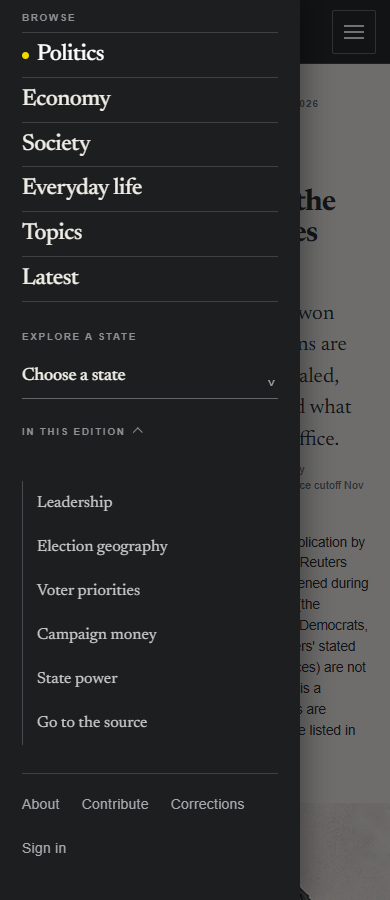
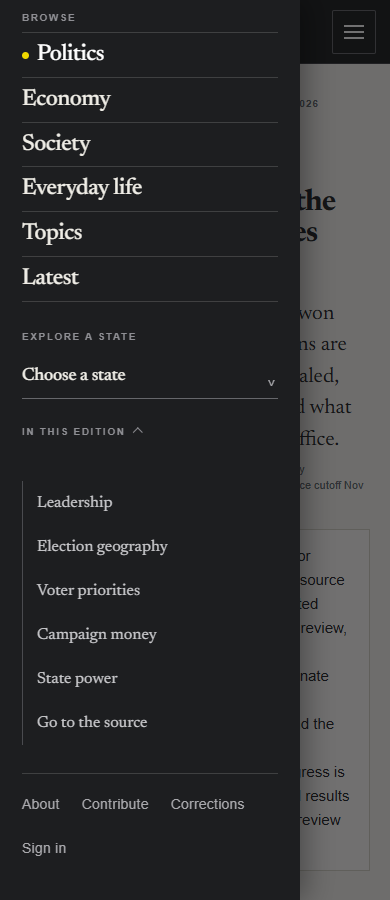
Daily Signal layout: 1120px editorial canvas, 680px reading column, wide high-resolution chapter images, compact at-a-glance, readable notes, layout check

Changed region(s): [[0.7692, 0.5911, 0.9538, 0.9333], [0.7692, 0.9644, 0.8, 1.0]]

diff --git a/static/css/politics.css b/static/css/politics.css
@@ -221,15 +221,17 @@ body.pol-home{--pol-gutter:48px;--pol-max:1240px}
 
 .pol-acc__note{font:13px/1.5 var(--sans);color:var(--muted);margin:16px 0 0;max-width:460px}
 
-/* ---- Daily Signal page: hero spread, sticky chapter bar, photo teasers, photo-led chapters with previous and next links */
-.pol-ed{max-width:none;margin:0;padding:0 0 80px}
+/* ---- Daily Signal page. Two widths: the editorial canvas (1120px) holds headlines, teasers and photographs; the reading column (680px) holds body text. */
+.pol-ed{--canvas:1120px;--read:680px;max-width:none;margin:0;padding:0 0 96px}
 .pol-ed__head{background:var(--llf-paper);overflow:hidden;border-bottom:1px solid var(--llf-line)}
-.pol-ed__head-in{display:grid;grid-template-columns:minmax(0,1.15fr) minmax(0,.85fr);max-width:1440px;margin:0 auto;padding:34px 0 0 var(--pol-gutter);min-height:400px}
-.pol-ed__head-t{padding:0 32px 34px 0;align-self:center}
+.pol-ed__head-in{display:grid;grid-template-columns:minmax(0,1.15fr) minmax(0,.85fr);max-width:1240px;margin:0 auto;padding:34px var(--pol-gutter) 0;min-height:380px;gap:24px;align-items:end}
+.pol-ed__head-t{padding-bottom:34px;align-self:center}
 .pol-ed__head h1{font:normal 700 clamp(30px,3.7vw,56px)/1.03 var(--serif);letter-spacing:-.03em;margin:12px 0 0}
-.pol-duo--ed{min-height:340px}
+.pol-ed__headimg{margin:0;align-self:end}
+.pol-ed__headimg img{display:block;width:100%;height:auto}
+.pol-ed__headimg figcaption{font:10px/1.35 var(--sans);color:var(--muted);padding:4px 0 6px}
 .pol-chapters{position:sticky;top:0;z-index:20;background:rgba(248,246,240,.97);border-bottom:1px solid var(--llf-line);-webkit-backdrop-filter:blur(6px);backdrop-filter:blur(6px)}
-.pol-chapters__in{max-width:1240px;margin:0 auto;padding:0 var(--pol-gutter);display:flex;align-items:center;gap:18px;overflow-x:auto;scrollbar-width:none}
+.pol-chapters__in{max-width:var(--canvas,1120px);margin:0 auto;padding:0 var(--pol-gutter);display:flex;align-items:center;gap:18px;overflow-x:auto;scrollbar-width:none}
 .pol-chapters__in::-webkit-scrollbar{display:none}
 .pol-chapters__top{flex:none;font:700 10.5px/1 var(--sans);letter-spacing:.14em;text-transform:uppercase;color:var(--llf-blue);text-decoration:none;display:inline-flex;align-items:center;min-height:48px}
 .pol-chapters ol{display:flex;list-style:none;margin:0;padding:0;gap:2px}
@@ -238,24 +240,48 @@ body.pol-home{--pol-gutter:48px;--pol-max:1240px}
 .pol-chapters a[data-chapter]:hover,.pol-chapters a[data-chapter]:focus-visible{background:var(--llf-line)}
 .pol-chapters a[aria-current="location"]{background:var(--llf-ink);color:var(--llf-paper)}
 .pol-chapters a[aria-current="location"] .pol-ch__n{color:var(--llf-yellow)}
-.pol-ed [id]{scroll-margin-top:112px}
-.pol-ed__sec{max-width:780px;margin:52px auto 0;padding:6px var(--pol-gutter) 0}
-.pol-ed__sec.pol-ed__signals{max-width:1240px}
-.pol-teasers__list--ed{margin-top:22px}
-.pol-ed__fig{margin:0 0 24px}
-.pol-ed__fig img{display:block;width:auto;max-width:100%;height:auto;max-height:440px}
-.pol-ed__fig figcaption{font:11px/1.4 var(--sans);color:var(--muted);margin-top:6px}
-.pol-ed__chapter{padding-top:34px;border-top:1px solid var(--llf-line)}
-.pol-ed__pn{display:grid;grid-template-columns:1fr 1fr;gap:16px;margin-top:22px;border-top:1px solid var(--llf-line);padding-top:14px}
+.pol-ed [id]{scroll-margin-top:84px}
+/* every section sits on the canvas; its text children return to the reading column */
+.pol-ed__sec{max-width:var(--canvas);margin:80px auto 0;padding:0 var(--pol-gutter)}
+.pol-ed__sec>:not(.pol-ed__chhead):not(.pol-ed__fig):not(.pol-teasers__list):not(.pol-ed__body){max-width:var(--read);margin-left:auto;margin-right:auto}
+.pol-ed__body{max-width:var(--read);margin:0 auto}
+.pol-ed__sec h2{font:normal 600 clamp(28px,3vw,40px)/1.1 var(--serif);letter-spacing:-.02em;margin:8px 0 18px}
+.pol-ed__sec p{font:normal 19px/1.65 var(--serif);margin:0 0 16px}
+.pol-ed__sec p.pol-ed__src,.pol-ed__src em{font:13px/1.5 var(--sans);color:var(--muted)}
+.pol-ed__sec p.pol-ed__close{font:italic normal 22px/1.4 var(--serif)}
+.pol-ed__chapter{padding-top:48px;border-top:1px solid var(--llf-line)}
+.pol-ed__chhead{max-width:var(--canvas);margin:0 auto 26px;padding-bottom:22px;border-bottom:1px solid var(--llf-ink)}
+.pol-ed__chhead h2{font:normal 700 clamp(36px,4.6vw,60px)/1.04 var(--serif);letter-spacing:-.028em;margin:10px 0 0;max-width:20ch}
+.pol-ed__fig{max-width:var(--canvas);margin:0 auto 40px}
+.pol-ed__fig img{display:block;width:100%;height:auto;aspect-ratio:16/9;object-fit:cover}
+.pol-ed__fig--32 img{aspect-ratio:3/2}
+.pol-ed__fig figcaption{font:11px/1.4 var(--sans);color:var(--muted);margin-top:8px}
+.pol-ed__pn{display:grid;grid-template-columns:1fr 1fr;gap:16px;margin-top:26px;border-top:1px solid var(--llf-line);padding-top:14px}
 .pol-ed__pn a{display:block;min-height:44px;color:var(--llf-ink);text-decoration:none}
 .pol-ed__pn a span{display:block;font:700 10.5px/1.3 var(--sans);letter-spacing:.12em;text-transform:uppercase;color:var(--llf-blue)}
 .pol-ed__pn a b{display:block;font:600 18px/1.25 var(--serif);margin-top:4px}
 .pol-ed__pn a:hover b,.pol-ed__pn a:focus-visible b{text-decoration:underline;text-underline-offset:4px}
 .pol-ed__pn .pol-ed__next{text-align:right}
+/* at a glance: compact, two columns */
+.pol-glance{border-top:1px solid var(--llf-ink);margin:22px auto 0;padding-top:2px}
+.pol-glance h3{margin:12px 0 4px}
+.pol-glance ul{list-style:none;margin:0;padding:0;display:grid;grid-template-columns:repeat(2,minmax(0,1fr));gap:0 28px}
+.pol-glance li{font:13.5px/1.45 var(--sans);padding:8px 0;border-bottom:1px solid var(--llf-line)}
+/* editorial verification notes: readable, with real contrast */
+.pol-note{margin:20px 0 0;border:1px solid var(--llf-line);border-left:4px solid var(--llf-blue);background:var(--llf-white);padding:14px 18px;font:15px/1.6 var(--sans);color:var(--llf-ink);max-width:var(--read,680px)}
+.pol-draftbar{margin:18px 0 0;border:1px solid var(--llf-ink);border-left-width:5px;padding:12px 16px;font:14px/1.5 var(--sans);background:repeating-linear-gradient(135deg,transparent 0 9px,rgba(34,35,38,.05) 9px 10px)}
+.pol-ed__sec .pol-list{font:15px/1.65 var(--sans)}
+.pol-ed__sec h3{font:700 11px/1.3 var(--sans);letter-spacing:.12em;text-transform:uppercase;margin:26px 0 8px}
+.pol-teasers__list--ed{margin-top:24px}
 @media (max-width:1100px){
-  .pol-ed__head-in{grid-template-columns:minmax(0,1fr);padding-left:var(--pol-gutter);min-height:0}
-  .pol-ed__head-t{padding-right:var(--pol-gutter)}
-  .pol-duo--ed{margin:0 0 0 calc(var(--pol-gutter) * -1)}
+  .pol-ed__head-in{grid-template-columns:minmax(0,1fr);min-height:0}
+  .pol-ed__headimg{max-width:560px}
 }
-@media (max-width:900px){.pol-chapters{top:64px}.pol-ed [id]{scroll-margin-top:136px}}
-@media (max-width:600px){.pol-ed__pn{grid-template-columns:minmax(0,1fr)}.pol-ed__pn .pol-ed__next{text-align:left}}
+@media (max-width:900px){.pol-chapters{top:64px}.pol-ed [id]{scroll-margin-top:140px}}
+@media (max-width:600px){
+  .pol-ed__sec{margin-top:56px}
+  .pol-ed__chhead h2{font-size:clamp(30px,9vw,40px)}
+  .pol-ed__pn{grid-template-columns:minmax(0,1fr)}.pol-ed__pn .pol-ed__next{text-align:left}
+  .pol-glance ul{grid-template-columns:minmax(0,1fr)}
+}
+

diff --git a/politics.py b/politics.py
@@ -125,6 +125,16 @@ def _img(key):
     return f"/img/elections/{key}.jpg"
 
 
+def _imgtag(im, alt="", sizes="(min-width: 1100px) 33vw, 100vw", loading="lazy"):
+    """A responsive <img>: the large file for wide screens and the small file for narrow ones. Falls back to a single src for older records."""
+    if im.get("src_small"):
+        ss = f'srcset="{e(im["src_small"])} {im["w_small"]}w, {e(im["src"])} {im["w"]}w" sizes="{sizes}" '
+    else:
+        ss = ""
+    ratio = 'width="1600" height="900"' if im.get("w") != 1500 else 'width="1500" height="1000"'
+    return f'<img class="pol-img--{e(im["treatment"])}" src="{e(im["src"])}" {ss}alt="{e(alt)}" loading="{loading}" {ratio}>'
+
+
 def _head(m, mid=None, tag="h2"):
     i = f' id="{mid}"' if mid else ""
     return f'<div class="pol-eyebrow">{e(m["eyebrow"])}</div><{tag}{i}>{e(m["h2"])}</{tag}>'
@@ -180,7 +190,7 @@ def teaser_section(api, d, teasers):
         im = t["image"]
         cr = im.get("credit") or credit_line(api, im.get("key", ""))
         u = f'/politics/daily/{e(ed["date"])}/#{e(t["target"])}'
-        arts += (f'<li class="pol-teaser"><a class="pol-teaser__pic" href="{u}" tabindex="-1" aria-hidden="true"><img class="pol-img--{e(im["treatment"])}" src="{e(im["src"])}" alt="" loading="lazy" width="1200" height="800">'
+        arts += (f'<li class="pol-teaser"><a class="pol-teaser__pic" href="{u}" tabindex="-1" aria-hidden="true">{_imgtag(im)}'
                  f'<span class="pol-credit">{e(cr)}</span></a>'
                  f'<div class="pol-teaser__body"><a class="pol-teaser__a" href="{u}"><span class="pol-teaser__n">{e(t["n"])} / {e(src["label"])}</span><span class="pol-teaser__t">{e(t["title"])}</span></a>'
                  f'<p class="pol-teaser__s">{src["teaser"]}</p>'
@@ -337,7 +347,7 @@ def render_edition(r, fmt_date, preview=False, teasers=None, art=None, credit=No
     cards = ""
     for i in sg["items"]:
         im = (imgs.get(i["target"]) or {}).get("image")
-        pic = (f'<a class="pol-teaser__pic" href="#{e(i["target"])}" tabindex="-1" aria-hidden="true"><img class="pol-img--{e(im["treatment"])}" src="{e(im["src"])}" alt="" loading="lazy" width="1200" height="800">'
+        pic = (f'<a class="pol-teaser__pic" href="#{e(i["target"])}" tabindex="-1" aria-hidden="true">{_imgtag(im)}'
                f'<span class="pol-credit">{e(credit(im))}</span></a>') if im else ""
         cards += (f'<li class="pol-teaser">{pic}<div class="pol-teaser__body"><a class="pol-teaser__a" href="#{e(i["target"])}"><span class="pol-teaser__n">{e(i["n"])} / {e(i["label"])}</span>'
                   f'<span class="pol-teaser__t">{e(i["title"])}</span></a><p class="pol-teaser__s">{i["teaser"]}</p>'
@@ -346,7 +356,8 @@ def render_edition(r, fmt_date, preview=False, teasers=None, art=None, credit=No
     secs = ""
     for k, s in enumerate(b["sections"]):
         im = (imgs.get(s["id"]) or {}).get("image")
-        fig = (f'<figure class="pol-ed__fig"><img class="pol-img--{e(im["treatment"])}" src="{e(im["src"])}" alt="{e(im["alt"])}" loading="lazy" width="1200" height="800">'
+        wide = bool(im) and im.get("w") == 1500
+        fig = (f'<figure class="pol-ed__fig{" pol-ed__fig--32" if wide else ""}">{_imgtag(im, im["alt"], "(min-width: 1180px) 1120px, 100vw", "lazy")}'
                f'<figcaption>{e(credit(im))}</figcaption></figure>') if im else ""
         prev = b["sections"][k - 1] if k else None
         nxt = b["sections"][k + 1] if k + 1 < len(b["sections"]) else None
@@ -355,8 +366,8 @@ def render_edition(r, fmt_date, preview=False, teasers=None, art=None, credit=No
               + (f'<a class="pol-ed__next" href="#{e(nxt["id"])}"><span>Next chapter →</span><b>{e(nxt["h2"])}</b></a>' if nxt else '<a class="pol-ed__next" href="#what-next"><span>Next →</span><b>What we are watching next</b></a>')
               + '</nav>')
         paras = "".join(f"<p>{p}</p>" for p in s["paras"])
-        secs += (f'<section class="pol-ed__sec pol-ed__chapter" id="{e(s["id"])}">{fig}<div class="pol-eyebrow">{e(s["n"])} / {e(label.get(s["id"], ""))}</div>'
-                 f'<h2>{e(s["h2"])}</h2>{paras}<p class="pol-ed__src">{s["source_review"]}</p><p class="pol-ed__back"><a href="#five-signals">Back to today\'s signals</a></p>{pn}</section>')
+        secs += (f'<section class="pol-ed__sec pol-ed__chapter" id="{e(s["id"])}"><header class="pol-ed__chhead"><div class="pol-eyebrow">{e(s["n"])} / {e(label.get(s["id"], ""))}</div>'
+                 f'<h2>{e(s["h2"])}</h2></header>{fig}<div class="pol-ed__body">{paras}<p class="pol-ed__src">{s["source_review"]}</p><p class="pol-ed__back"><a href="#five-signals">Back to today\'s signals</a></p>{pn}</div></section>')
     w = b["watching"]
     watch = "".join(f"<li>{x}</li>" for x in w["items"])
     src = "".join(f'<li><a href="{e(s["url"])}" rel="noopener">{e(s["label"])}</a>, {e(fmt_date(s["date"]))}</li>' for s in r["sources"])
@@ -364,8 +375,8 @@ def render_edition(r, fmt_date, preview=False, teasers=None, art=None, credit=No
     editor = ("Edited by " + e(r["editor"])) if not r["editor"].lower().startswith("not yet") else "Editor not yet assigned"
     hero = ""
     if art:
-        hero = (f'<figure class="pol-duo pol-duo--ed" data-asset="{e(art["asset_id"])}"><span class="pol-duo__plane" aria-hidden="true"></span>'
-                f'<img class="pol-duo__img" src="{e(art["src"])}" width="{art["width"]}" height="{art["height"]}" alt="{e(art["alt"])}" fetchpriority="high"></figure>')
+        hero = (f'<figure class="pol-ed__headimg" data-asset="{e(art["asset_id"])}">'
+                f'<img src="{e(art["src"])}" width="{art["width"]}" height="{art["height"]}" alt="{e(art["alt"])}" fetchpriority="high"><figcaption>{e(art["credit"])}</figcaption></figure>')
     return (f'<article class="pol-ed" data-outline-label="In this edition" data-story-id="{e(r["story_id"])}">'
             f'<header class="pol-ed__head"><div class="pol-ed__head-in"><div class="pol-ed__head-t"><div class="breadcrumb"><a href="/">Home</a> / <a href="/politics/">Politics</a> / <a href="/politics/daily/">The Daily Signal</a> / {e(fmt_date(r["date"]))}</div>'
             f'<div class="pol-eyebrow">THE DAILY SIGNAL / EDITION {e(r["edition"])}</div><h1>{e(r["title"])}</h1><p class="pol-ed__dek">{e(r["dek"])}</p>'
@@ -455,7 +466,7 @@ def build(api):
     d = home["daily"]
     for dt, rs in groups.items():
         is_draft = any(r["status"] != "approved" for r in rs)
-        page = render_daily_briefing(dt, rs, fmt_date, teasers=home["teasers"], art=home["hero"]["art"],
+        page = render_daily_briefing(dt, rs, fmt_date, teasers=home["teasers"], art=home["edition_art"],
                                      credit=lambda im: im.get("credit") or credit_line(api, im.get("key", "")))
         if any(r.get("blocks") for r in rs):
             validate_edition_html(next(r for r in rs if r.get("blocks")), page)

diff --git a/tools/qa/politics_layout_check.py b/tools/qa/politics_layout_check.py
@@ -1,0 +1,94 @@
+#!/usr/bin/env python3
+"""Layout measurements for the Daily Signal edition (Playwright; serves ./dist locally).
+
+Checks, at 1440 and 390 px: chapter photographs fill the editorial canvas (900 to 1120 px on desktop, never below natural-size limits), the reading column is
+640 to 700 px, chapter images are 16:9 or 3:2 and never upscaled past their pixel width, headlines are larger than body text and separated from it, and every
+chapter and teaser anchor scrolls to a fully visible heading (not hidden under the sticky bars). Prints a measurement table. Exit 1 on any failure.
+"""
+import functools
+import sys
+import threading
+from http.server import SimpleHTTPRequestHandler, ThreadingHTTPServer
+from pathlib import Path
+
+ROOT = Path(__file__).resolve().parents[2]
+PAGE = "/politics/daily/2026-11-05/"
+CHAPTERS = ["leadership", "geography", "voters", "money", "states"]
+MEASURE = r"""(id) => {
+  const s = document.getElementById(id); const r = e => e ? e.getBoundingClientRect() : null;
+  const fig = s.querySelector('.pol-ed__fig img'), h = s.querySelector('h2'), p = s.querySelector('.pol-ed__body p');
+  const f = r(fig), hh = r(h), pp = r(p);
+  const real = fig ? (() => { const m = (fig.srcset || '').split(',').map(x => x.trim().split(/\s+/)).find(x => fig.currentSrc.endsWith(x[0].split('?')[0]) || fig.currentSrc.includes(x[0].split('?')[0])); return m ? parseInt(m[1]) : fig.naturalWidth; })() : 0;
+  return {fig: f && {w: Math.round(f.width), h: Math.round(f.height), nat: real, ratio: +(f.width / f.height).toFixed(2)},
+          head: {w: Math.round(hh.width), size: parseFloat(getComputedStyle(h).fontSize)},
+          body: {w: Math.round(pp.width), size: parseFloat(getComputedStyle(p).fontSize)},
+          gap: Math.round(pp.top - (f ? f.bottom : hh.bottom))};
+}"""
+
+
+def main():
+    from playwright.sync_api import sync_playwright
+    h = functools.partial(SimpleHTTPRequestHandler, directory=str(ROOT / "dist"))
+    h.log_message = lambda *a, **k: None
+    srv = ThreadingHTTPServer(("127.0.0.1", 0), h)
+    threading.Thread(target=srv.serve_forever, daemon=True).start()
+    base = f"http://127.0.0.1:{srv.server_address[1]}"
+    fails, rows = [], []
+    with sync_playwright() as p:
+        try:
+            b = p.chromium.launch(channel="msedge")
+        except Exception:
+            b = p.chromium.launch()
+        for w, hgt in ((1440, 900), (390, 844)):
+            pg = b.new_context(viewport={"width": w, "height": hgt}).new_page()
+            pg.goto(base + PAGE)
+            pg.wait_for_load_state("networkidle")
+            pg.evaluate("async () => { document.querySelectorAll('img').forEach(i => i.loading = 'eager'); await Promise.all([...document.images].map(i => i.decode().catch(() => {}))); }")
+            for cid in CHAPTERS:
+                m = pg.evaluate(MEASURE, cid)
+                rows.append((w, cid, m))
+                f = m["fig"]
+                if not f:
+                    fails.append(f"{w} #{cid}: no chapter image")
+                    continue
+                if w >= 1100:
+                    if not 900 <= f["w"] <= 1120:
+                        fails.append(f"{w} #{cid}: image is {f['w']}px wide (needs 900 to 1120)")
+                    if not 640 <= m["body"]["w"] <= 700:
+                        fails.append(f"{w} #{cid}: reading column is {m['body']['w']}px (needs 640 to 700)")
+                else:
+                    if f["w"] < w - 80:
+                        fails.append(f"{w} #{cid}: image is only {f['w']}px wide on a {w}px screen")
+                if not (abs(f["ratio"] - 16 / 9) < 0.03 or abs(f["ratio"] - 1.5) < 0.03):
+                    fails.append(f"{w} #{cid}: image ratio {f['ratio']} is neither 16:9 nor 3:2")
+                if f["nat"] < f["w"] * (1 if w >= 1100 else 0.9):
+                    fails.append(f"{w} #{cid}: image is upscaled ({f['nat']}px natural for {f['w']}px shown)")
+                if m["head"]["size"] < m["body"]["size"] * 1.6:
+                    fails.append(f"{w} #{cid}: headline {m['head']['size']}px is not clearly larger than body {m['body']['size']}px")
+            # anchors: chapter bar, teasers and back links must land on a fully visible heading
+            bar_bottom = lambda: pg.evaluate("() => { const b = document.querySelector('.pol-chapters').getBoundingClientRect(); const mb = document.querySelector('.mobile-bar'); const m = mb ? mb.getBoundingClientRect() : {bottom: 0}; return Math.max(b.bottom, m.bottom) }")
+            for cid in CHAPTERS:
+                for sel in (f'.pol-chapters a[data-chapter="{cid}"]', f'#five-signals a.pol-teaser__go[href="#{cid}"]'):
+                    pg.evaluate("window.scrollTo(0, 0)")
+                    pg.locator(sel).first.click()
+                    pg.wait_for_function("() => { window.__y2 = window.__y1; window.__y1 = window.scrollY; return window.__y2 === window.__y1; }", polling=250, timeout=8000)      # smooth scrolling has stopped
+                    r = pg.evaluate("(id) => { const e = document.querySelector('#' + id + ' .pol-eyebrow').getBoundingClientRect(); const h = document.querySelector('#' + id + ' h2').getBoundingClientRect(); return {top: e.top, bottom: h.bottom} }", cid)
+                    if r["top"] < bar_bottom() - 1 or r["bottom"] > hgt:
+                        fails.append(f"{w} {sel}: heading spans {r['top']:.0f} to {r['bottom']:.0f}px with the sticky bars ending at {bar_bottom():.0f}px")
+            pg.evaluate("window.scrollTo(0, 0)")
+            ov = pg.evaluate("() => document.documentElement.scrollWidth - innerWidth")
+            if ov > 1:
+                fails.append(f"{w}: horizontal scroll of {ov}px")
+        b.close()
+    print(f"{'px':>5} {'chapter':<11} {'image':>13} {'natural':>8} {'ratio':>6} {'body col':>9} {'headline':>9} {'gap':>5}")
+    for w, cid, m in rows:
+        f = m["fig"]
+        print(f"{w:>5} {cid:<11} {str(f['w']) + 'x' + str(f['h']):>13} {f['nat']:>8} {f['ratio']:>6} {m['body']['w']:>9} {m['head']['size']:>8.0f}p {m['gap']:>5}")
+    print(f"LAYOUT CHECK: {len(fails)} problem(s)")
+    for f in fails:
+        print("  " + f)
+    return 1 if fails else 0
+
+
+if __name__ == "__main__":
+    sys.exit(main())

diff --git a/tools/politics/prepare_chapter_images.py b/tools/politics/prepare_chapter_images.py
@@ -1,0 +1,84 @@
+#!/usr/bin/env python3
+"""Prepare the Daily Signal chapter and teaser photographs: high-resolution landscape images (16:9, or 3:2 for the leadership composition), never upscaled.
+
+Sources are real, rights-recorded photographs already in assets/politics_src/ (see docs/politics/brand/ASSET_MANIFEST.csv). The Michigan State Capitol is fetched at
+2400 px from Wikimedia Commons (CC BY-SA 2.0, w_lemay). Output: static/img/politics/chapters/<name>-1600.jpg and <name>-800.jpg (the leadership composition is 3:2).
+The money chapter gets one directional duochrome plane (geometry on part of the picture); the others stay natural colour. Usage: python tools/politics/prepare_chapter_images.py
+"""
+import io
+import json
+import re
+import urllib.parse
+import urllib.request
+from pathlib import Path
+
+from PIL import Image, ImageChops, ImageDraw, ImageOps
+
+ROOT = Path(__file__).resolve().parents[2]
+SRC = ROOT / "assets" / "politics_src"
+OUT = ROOT / "static" / "img" / "politics" / "chapters"
+UA = {"User-Agent": "LLF-election-desk/1.0 (hello@looklearnfind.com)"}
+
+
+def crop_ratio(im, box, ratio=16 / 9):
+    """Crop to the given aspect inside `box` (left, top, right, bottom), centred, never larger than the source."""
+    l, t, r, b = box
+    w, h = r - l, b - t
+    if w / h > ratio:
+        nw = int(h * ratio)
+        l += (w - nw) // 2
+        w = nw
+    else:
+        nh = int(w / ratio)
+        t += (h - nh) // 2
+        h = nh
+    return im.crop((l, t, l + w, t + h))
+
+
+def save(im, name, ratio=16 / 9):
+    OUT.mkdir(parents=True, exist_ok=True)
+    for w in (1600, 800):
+        w = min(w, im.width)                # never upscale
+        o = im.resize((w, round(w / ratio)), Image.LANCZOS)
+        o.save(OUT / f"{name}-{w if w in (1600, 800) else 1600}.jpg", quality=86, optimize=True)
+    print(name, im.size)
+
+
+def duochrome(im):
+    """Selective duochrome: monochrome with one directional teal plane across part of the picture."""
+    g = ImageOps.colorize(ImageOps.grayscale(im), black=(26, 31, 33), white=(246, 243, 235)).convert("RGB")
+    w, h = g.size
+    plane = Image.new("RGB", g.size, (22, 167, 155))
+    mask = Image.new("L", g.size, 0)
+    ImageDraw.Draw(mask).polygon([(int(w * .46), 0), (int(w * .78), 0), (int(w * .52), h), (int(w * .2), h)], fill=235)
+    tinted = ImageChops.multiply(g, plane)
+    return Image.composite(tinted, g, mask)
+
+
+def commons(title, width=2400):
+    q = urllib.parse.urlencode(dict(action="query", titles=title, prop="imageinfo", iiprop="url|size", iiurlwidth=width, format="json"))
+    j = json.loads(urllib.request.urlopen(urllib.request.Request("https://commons.wikimedia.org/w/api.php?" + q, headers=UA), timeout=60).read())
+    ii = list(j["query"]["pages"].values())[0]["imageinfo"][0]
+    return Image.open(io.BytesIO(urllib.request.urlopen(urllib.request.Request(ii["thumburl"], headers=UA), timeout=120).read())).convert("RGB"), ii
+
+
+def main():
+    t = SRC / "teasers"
+    k = Image.open(t / "kansas-capitol.jpg").convert("RGB")                     # 2400x1800
+    save(crop_ratio(k, (0, 200, k.width, k.height)), "geography")
+    g = Image.open(t / "grocery-prices.jpg").convert("RGB")                     # 2400x1350 with a black bar across the top
+    save(crop_ratio(g, (0, int(g.height * 0.15), g.width, g.height)), "voters")
+    d = Image.open(t / "dollar-bill.jpg").convert("RGB")                        # 2400x1046
+    save(duochrome(crop_ratio(d, (0, 0, d.width, d.height))), "money")
+    mi, ii = commons("File:Michigan State Capitol, Capitol Avenue, Lansing, MI - 54383520410.jpg")
+    mi.save(SRC / "teasers" / "michigan-capitol-2400.jpg", quality=92)
+    save(crop_ratio(mi, (0, int(mi.height * 0.05), mi.width, mi.height)), "states")
+    lead = Image.open(ROOT / "static" / "img" / "politics" / "leadership-composite.jpg").convert("RGB")      # 1500x1000, 3:2, built from the real portraits
+    OUT.mkdir(parents=True, exist_ok=True)
+    lead.save(OUT / "leadership-1500.jpg", quality=88, optimize=True)
+    lead.resize((750, 500), Image.LANCZOS).save(OUT / "leadership-750.jpg", quality=86, optimize=True)
+    print("leadership", lead.size, "| michigan source", ii["width"], "x", ii["height"])
+
+
+if __name__ == "__main__":
+    main()

diff --git a/tests/test_politics.py b/tests/test_politics.py
@@ -313,13 +313,13 @@ class EditionBuilt(unittest.TestCase):
 
     def test_chapters_have_photos_a_sticky_bar_and_previous_next_links(self):
         import re
-        self.assertEqual(self.h.count('class="pol-ed__fig"'), 5)
+        self.assertEqual(self.h.count('class="pol-ed__fig'), 5)
         self.assertEqual(len(re.findall(r'data-chapter="(?:leadership|geography|voters|money|states)"', self.h)), 5)
         sig = re.search(r'id="five-signals".*?</section>', self.h, re.S).group(0)
         self.assertEqual(sig.count("<img"), 5); self.assertEqual(sig.count("Jump to chapter"), 5)
         self.assertEqual(self.h.count('class="pol-ed__pn"'), 5)
         self.assertIn('href="#national-picture"><span>← Back to the opening', self.h); self.assertIn('href="#what-next"><span>Next →', self.h)
-        self.assertIn("pol-duo--ed", self.h)
+        self.assertIn("pol-ed__headimg", self.h)
         self.assertIn("data-chapter", (ROOT / "static" / "js" / "politics.js").read_text(encoding="utf-8"))
         self.assertIn('/js/politics.js', self.h)
 
